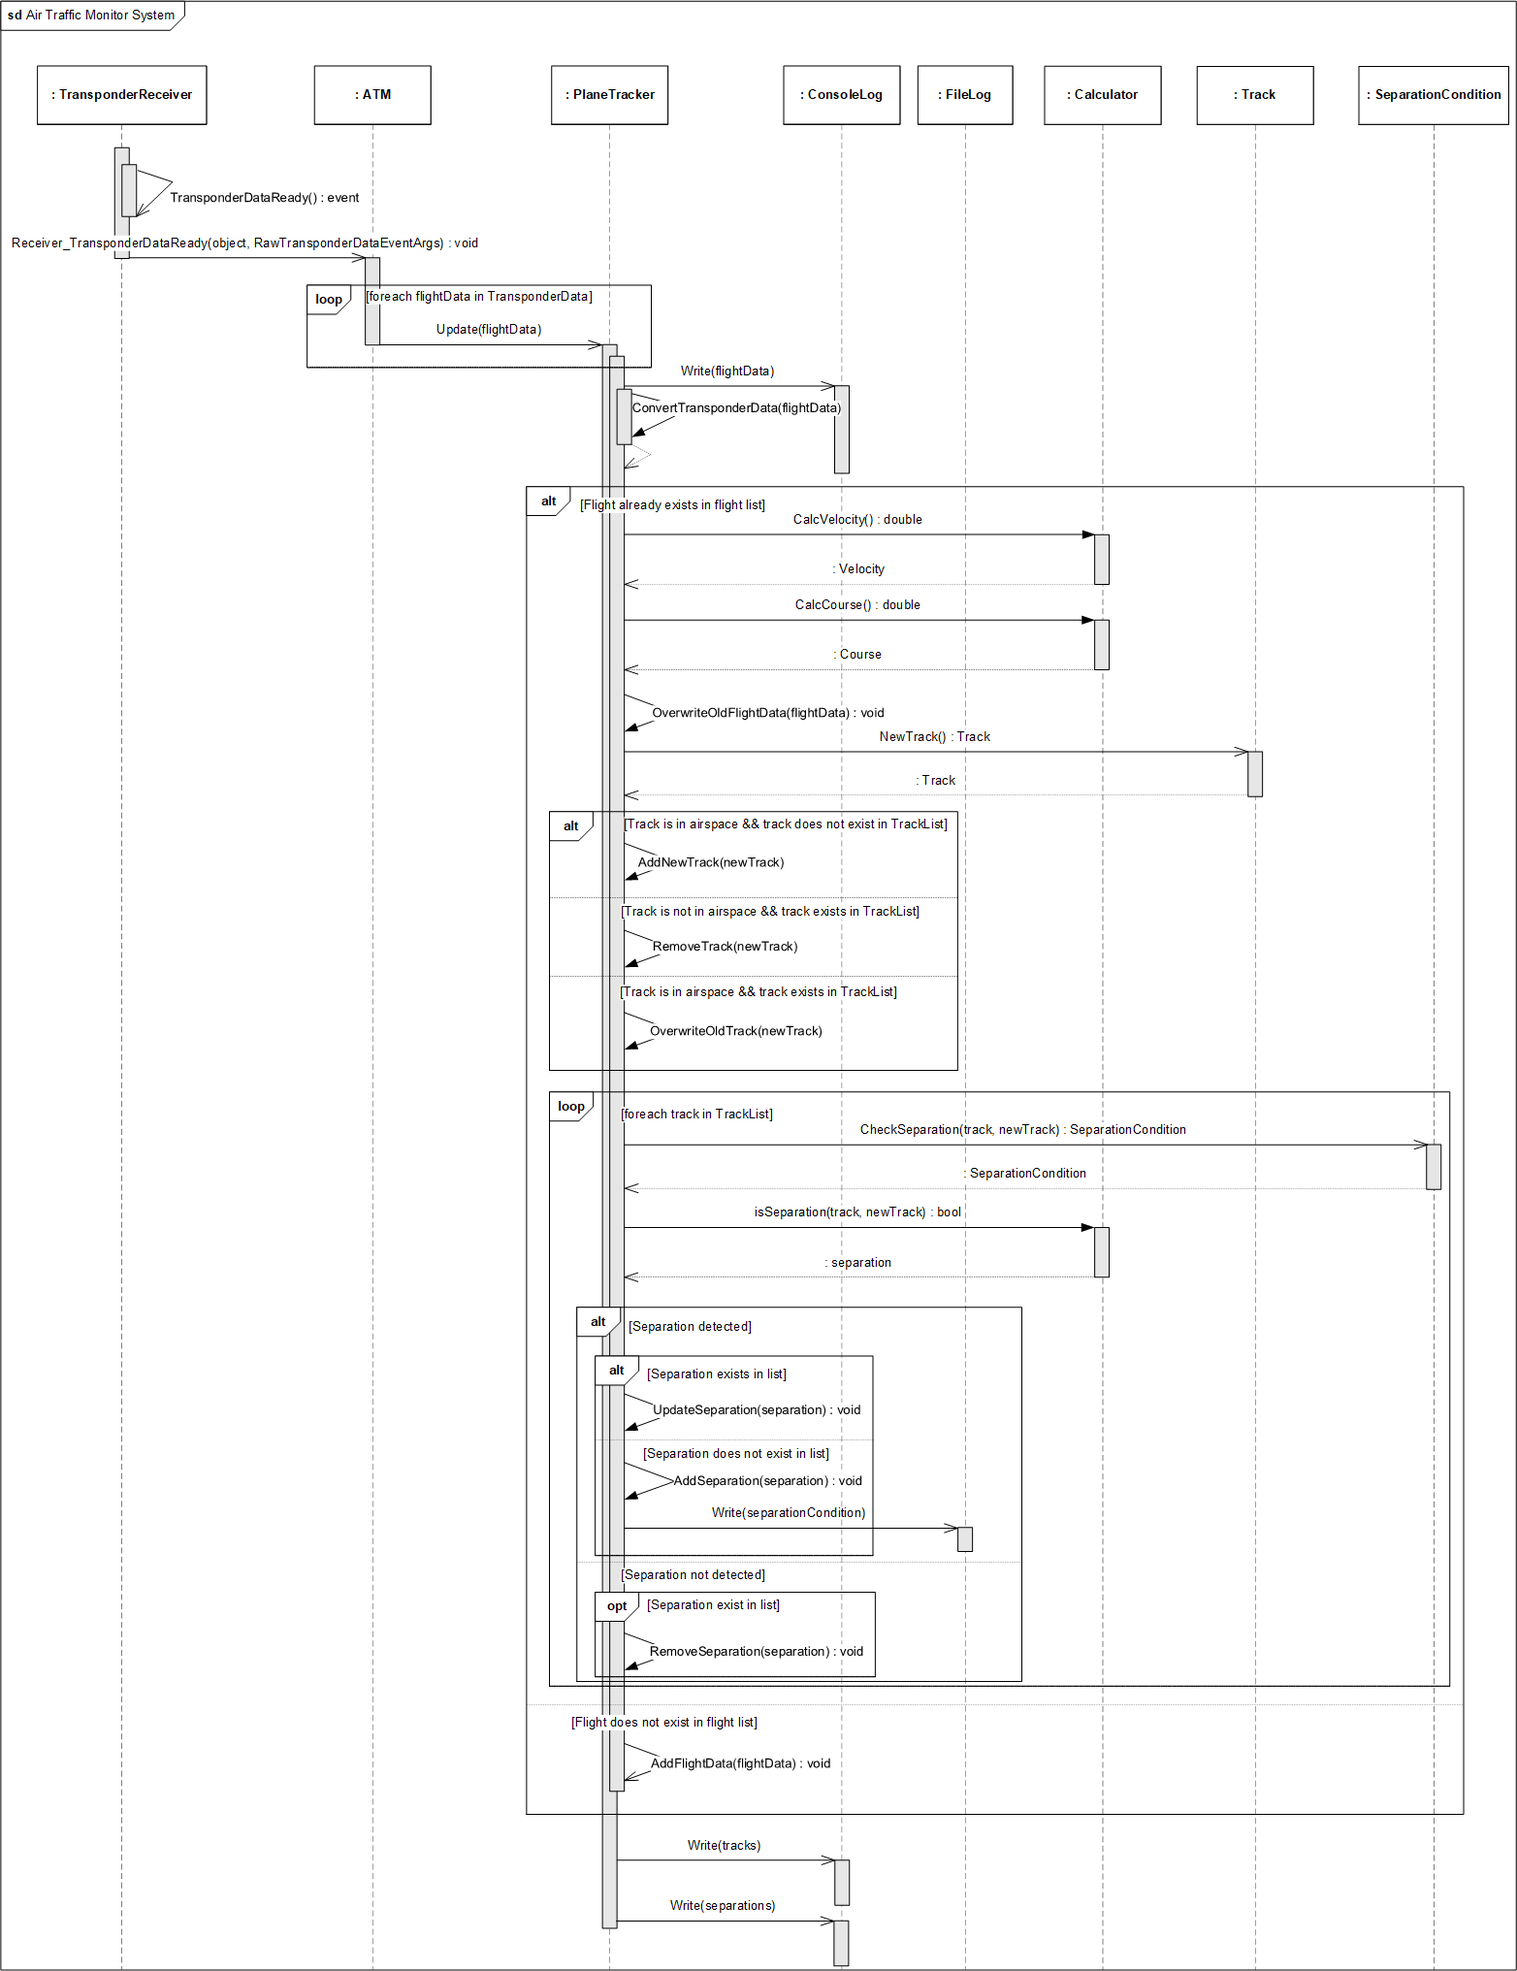
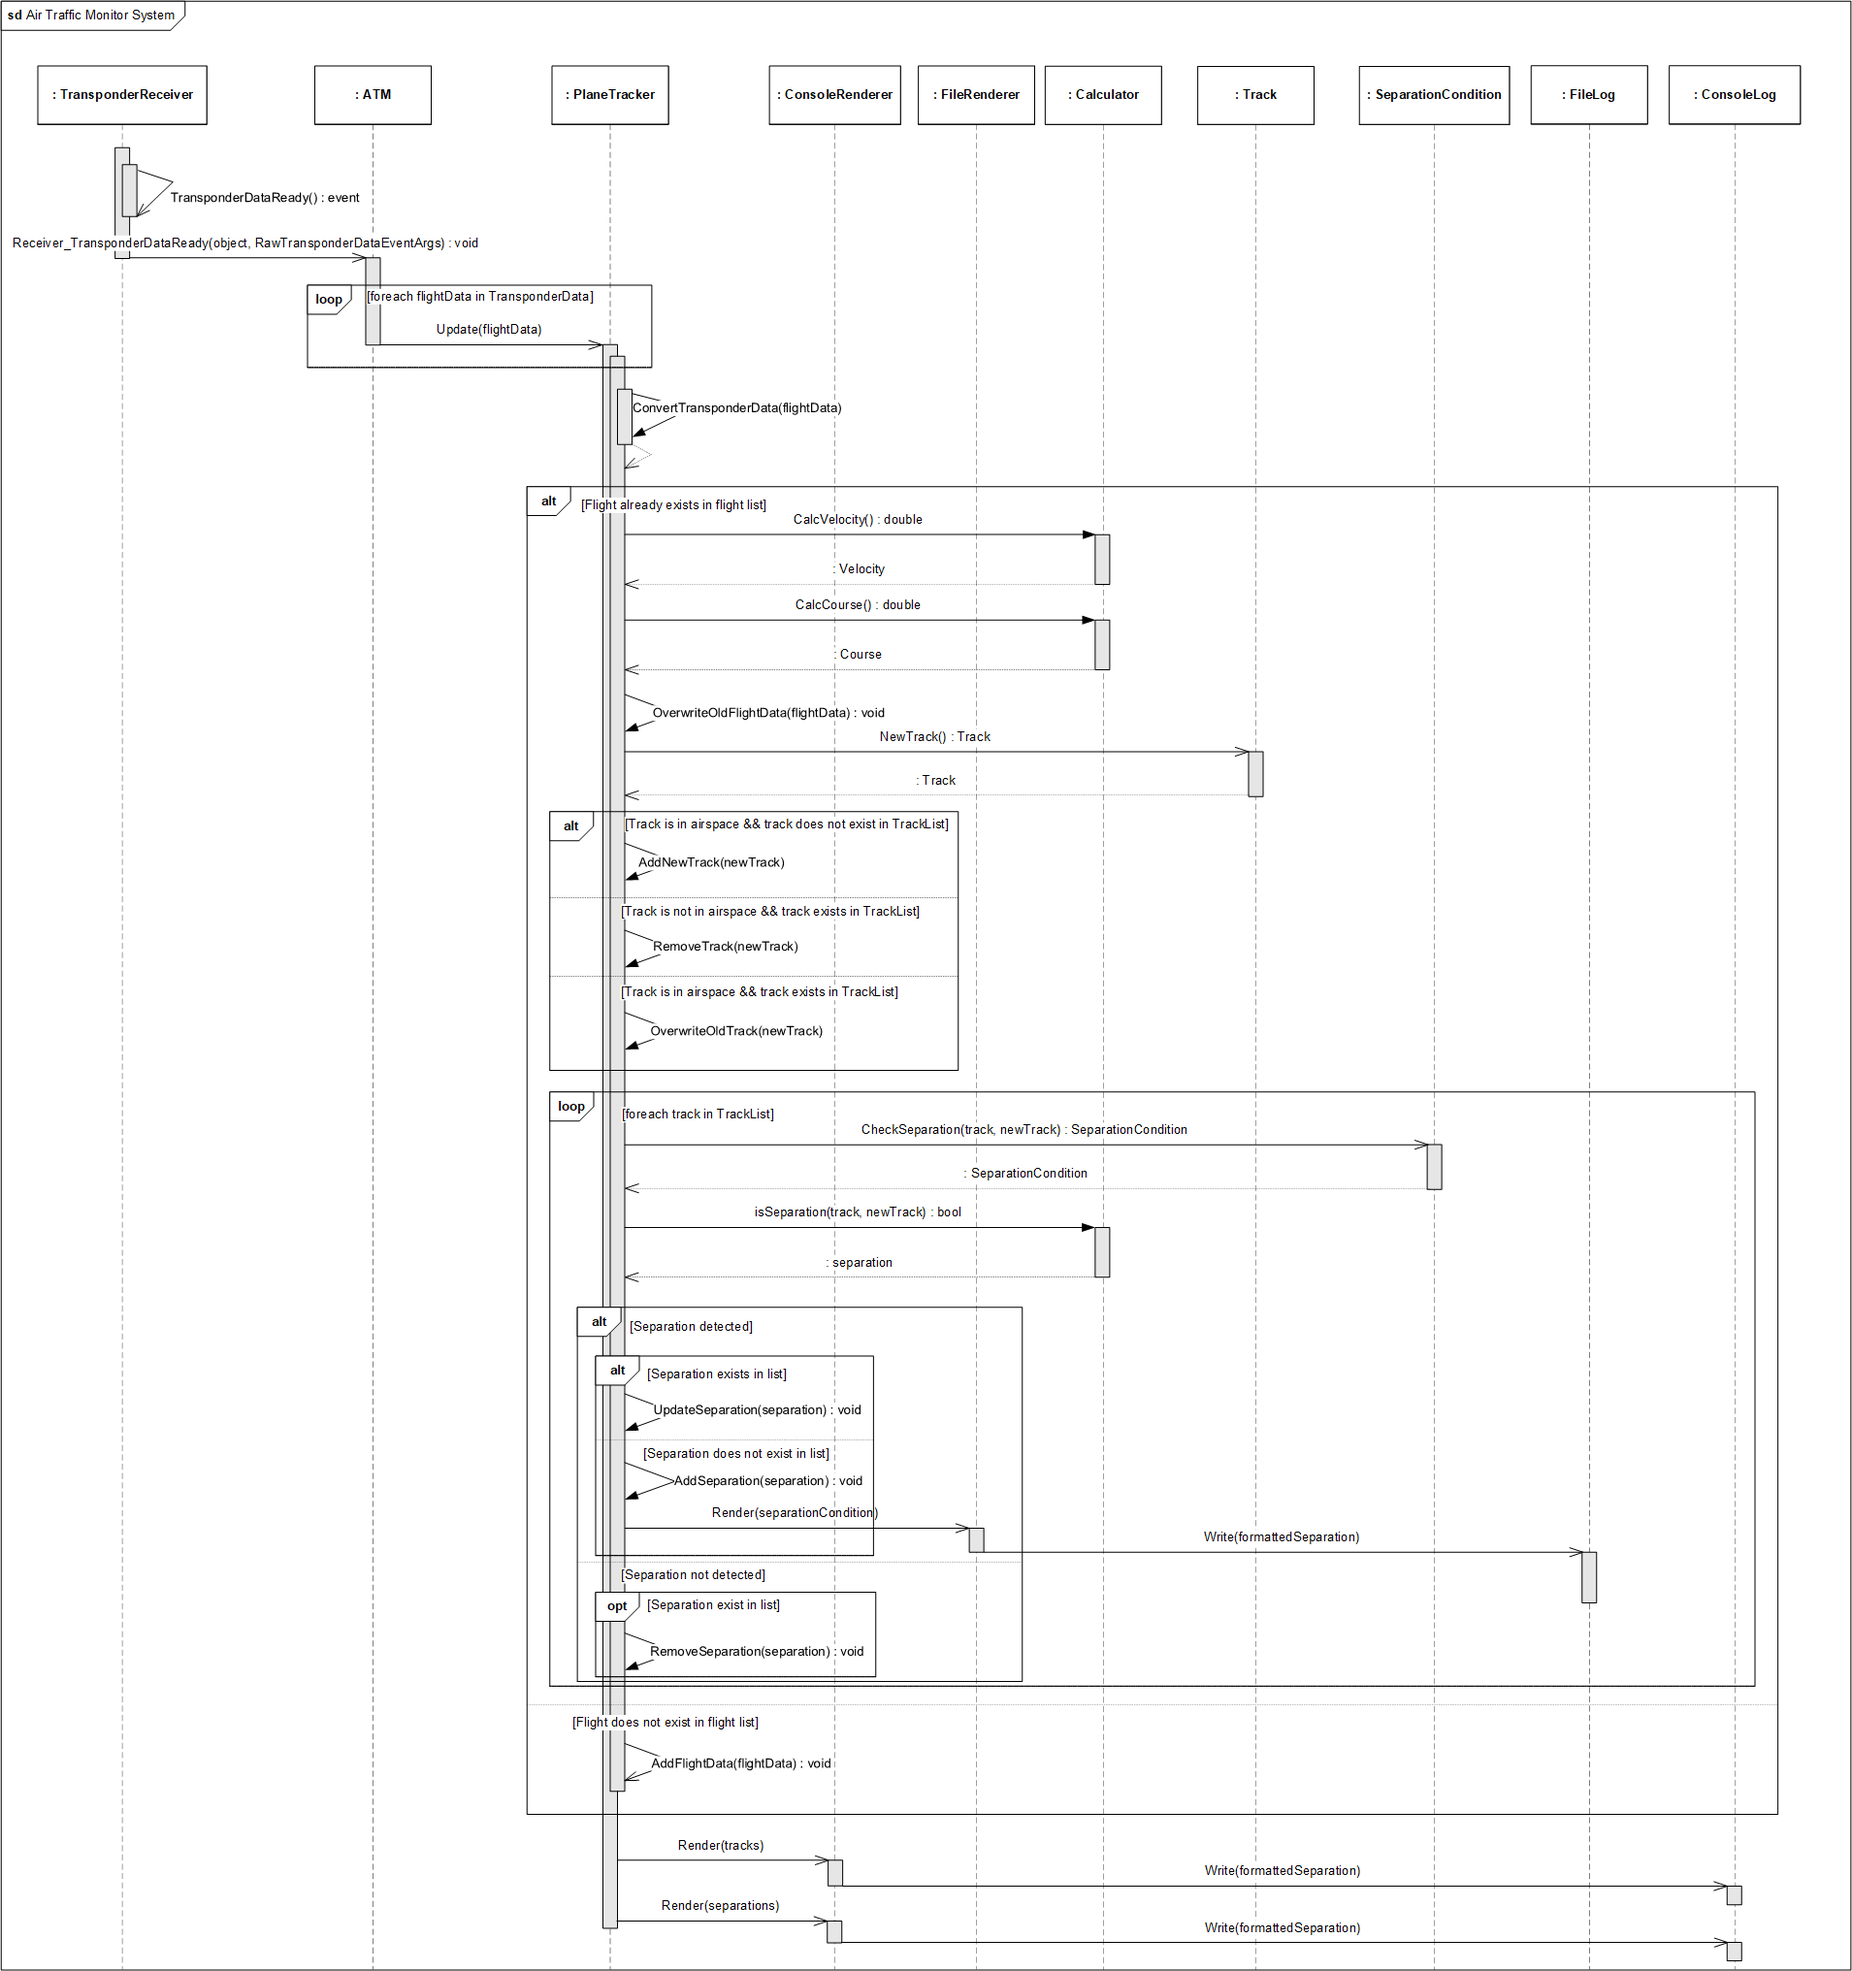
New diagarms

diff --git a/ATC/PlaneTracker.cs b/ATC/PlaneTracker.cs
@@ -143,10 +143,7 @@ namespace ATC
                             {
                                 //This separation was not previously registered and will be inserted in list
                                 _fileRenderer.Render(newSeparationCondition);
-                       /*         
                                 _currentSeparations.Add(newSeparationCondition);
-                                _fLog.Write($"Separation condition detected at {newSeparationCondition._track1._tag} and {newSeparationCondition._track2._tag} at timestamp: {newSeparationCondition.Timestamp}");
-                                */
                             }
                             else
                             {
